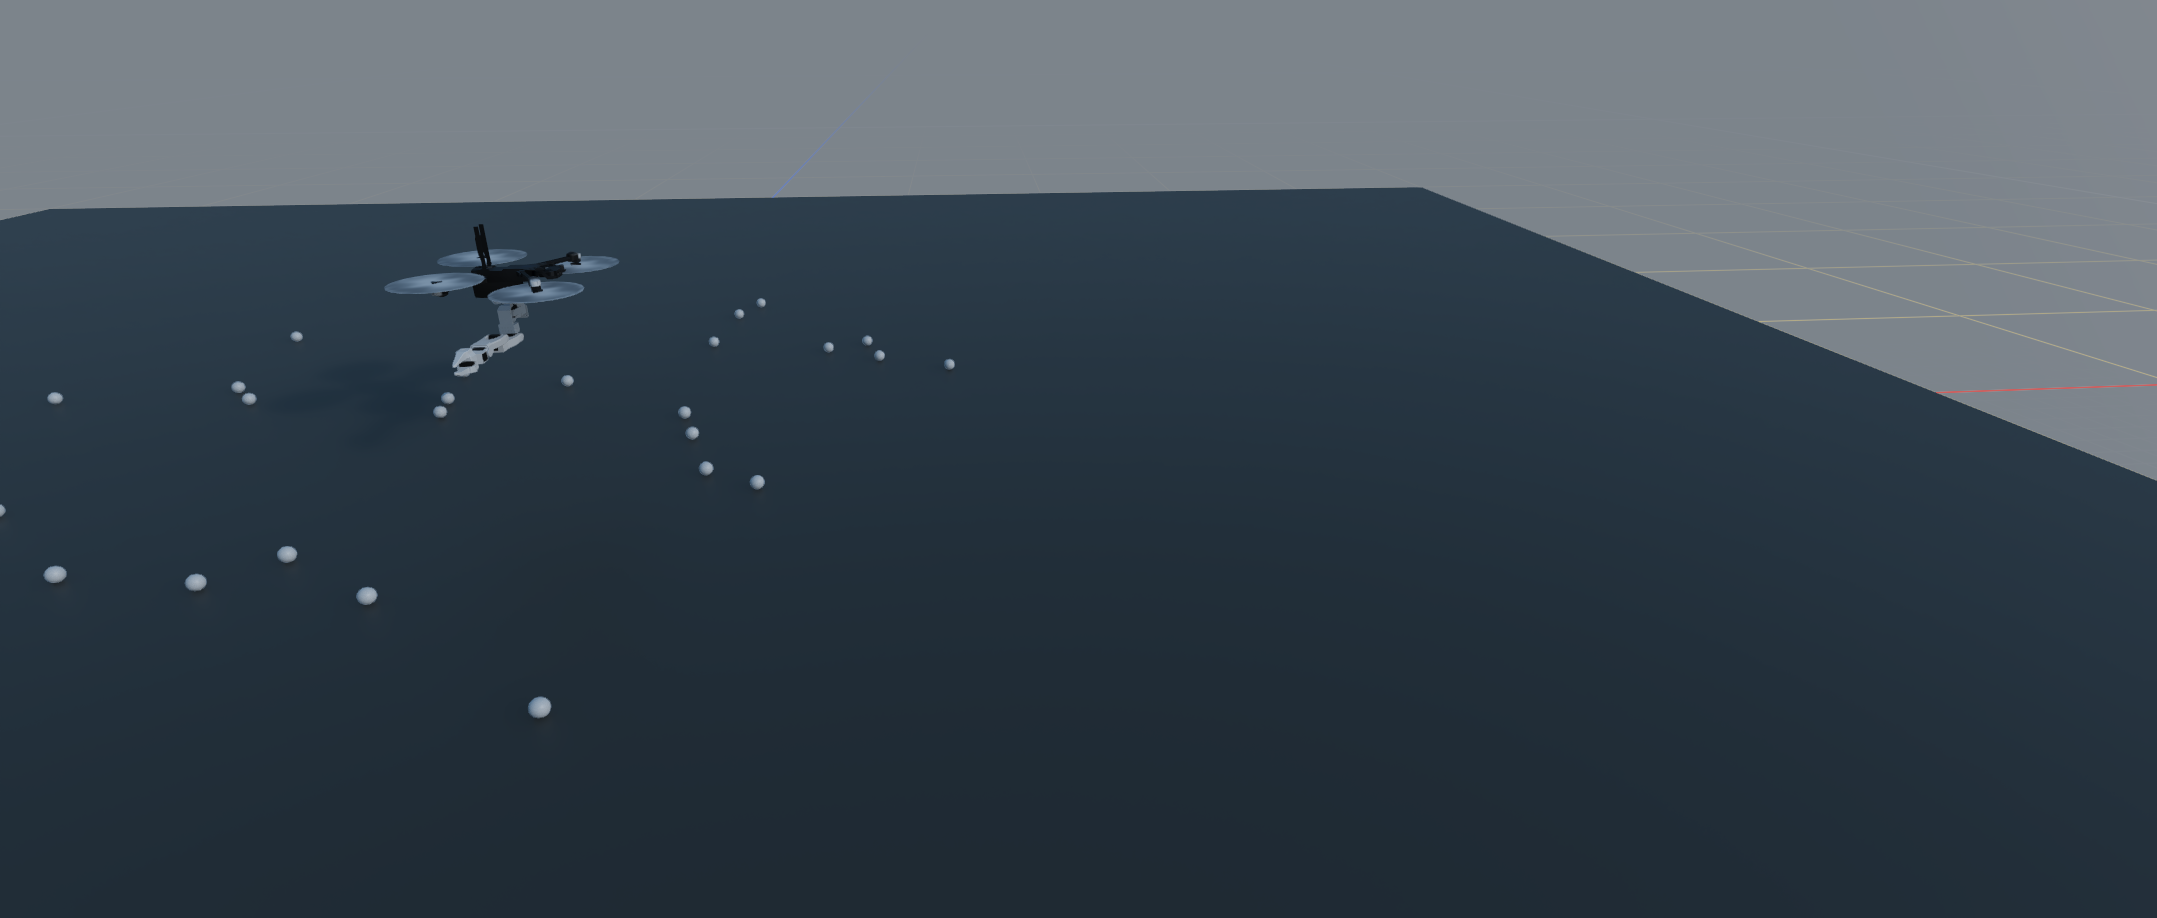
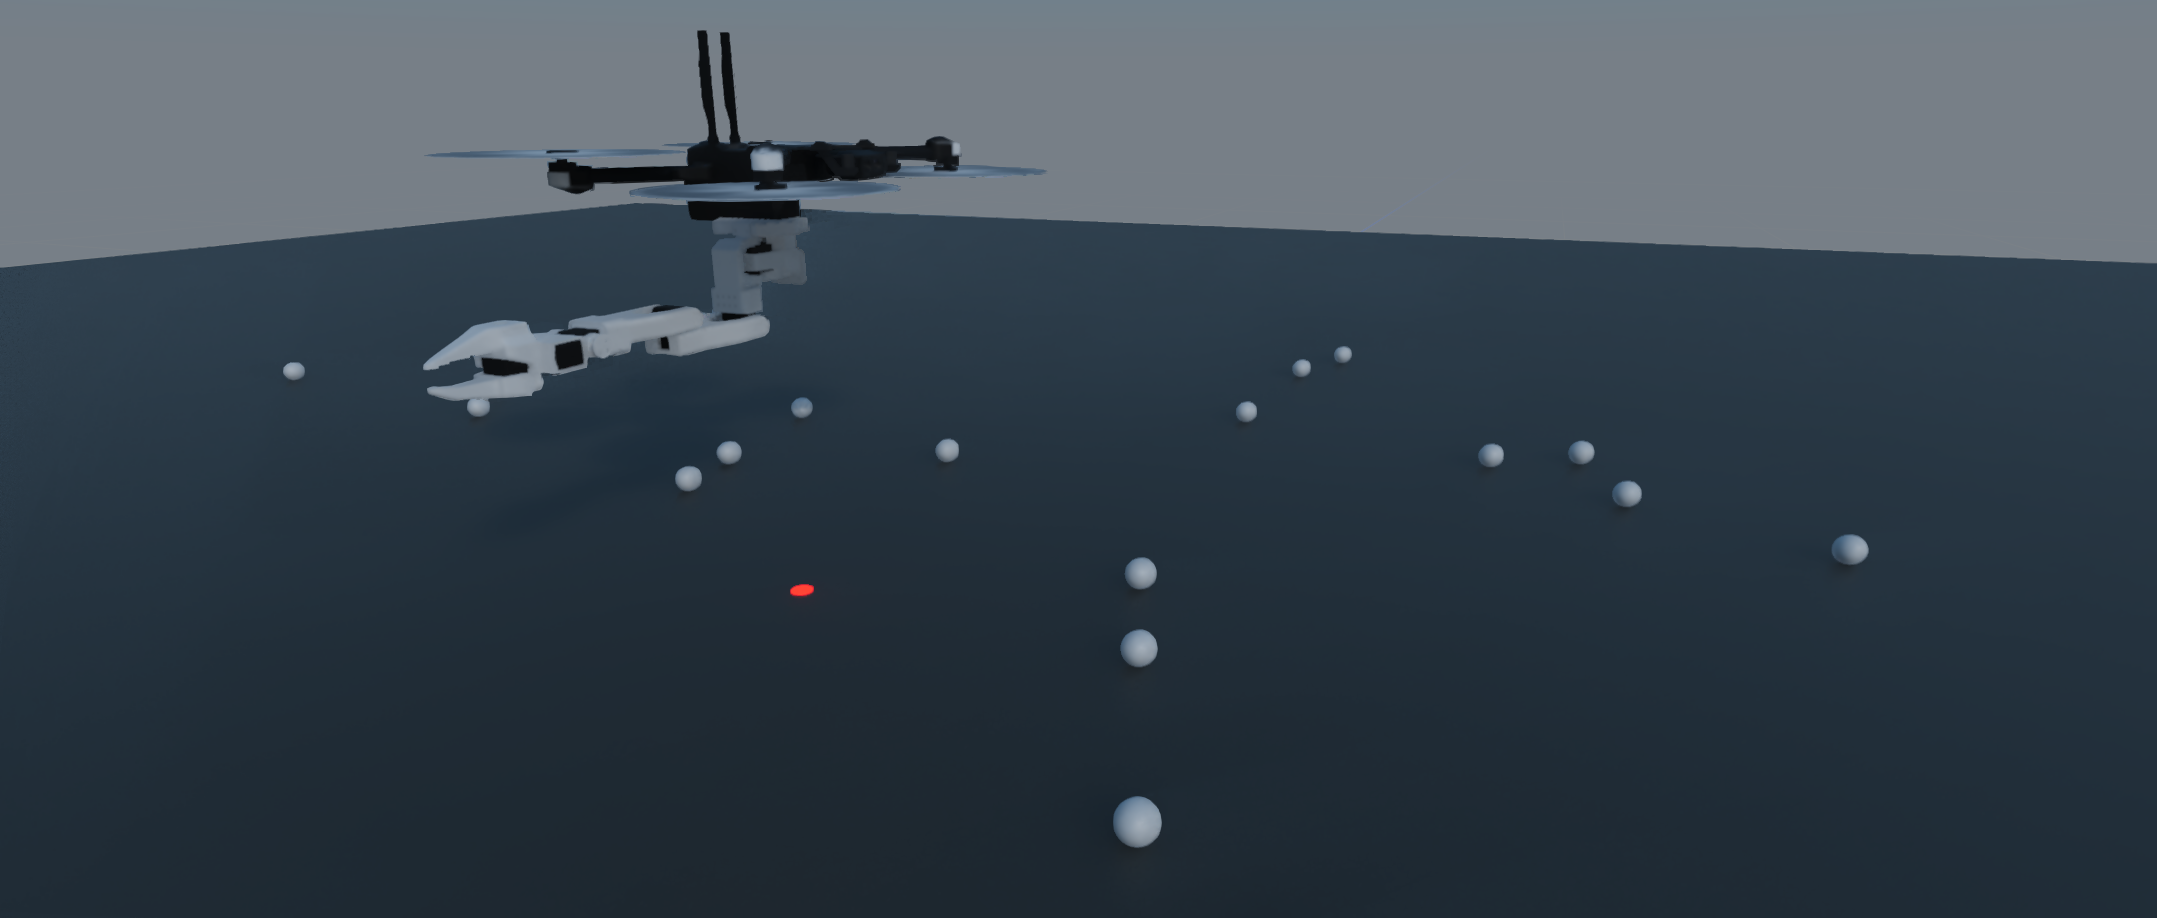
red marker to the groudn for gripper added

diff --git a/LuckyEngine/Assets/Scripts/Client/Source/DroneTeleop.cs b/LuckyEngine/Assets/Scripts/Client/Source/DroneTeleop.cs
@@ -38,7 +38,8 @@ namespace Dronstein
 		uint m_Drone;
 		float[] m_Qpos, m_Qvel;
 
-		Entity m_Camera, m_Body;
+		Entity m_Camera, m_Body, m_GripDot;
+		uint m_GraspSite;
 		Vector3 m_CameraOffset;
 
 		Vector3 m_Target;
@@ -71,6 +72,9 @@ namespace Dronstein
 			m_Camera = FindEntityByTag("Camera");
 			m_Body = FindEntityByTag("x2");
 			m_CameraOffset = m_Camera.Translation - m_Body.Translation;
+			// Red dot on the ground straight below the gripper.
+			m_GripDot = FindEntityByTag("GripDot");
+			m_GraspSite = m_Mj.GetSiteID("grasp_site");
 
 			Log.Info($"DroneTeleop: start at {m_Target}, nq={m_Mj.ModelNq} nu={m_Mj.ModelNu}");
 		}
@@ -118,6 +122,8 @@ namespace Dronstein
 
 			Control(dt);
 			m_Camera.Translation = m_Body.Translation + m_CameraOffset;
+			Vector3 grasp = m_Mj.GetSitePositionMj(m_GraspSite);  // MuJoCo (x, y) on the ground is Lucky (x, -z)
+			m_GripDot.Translation = new Vector3(grasp.X, m_GripDot.Translation.Y, -grasp.Y);
 		}
 
 		void MoveArmJoint(int joint, float delta)
